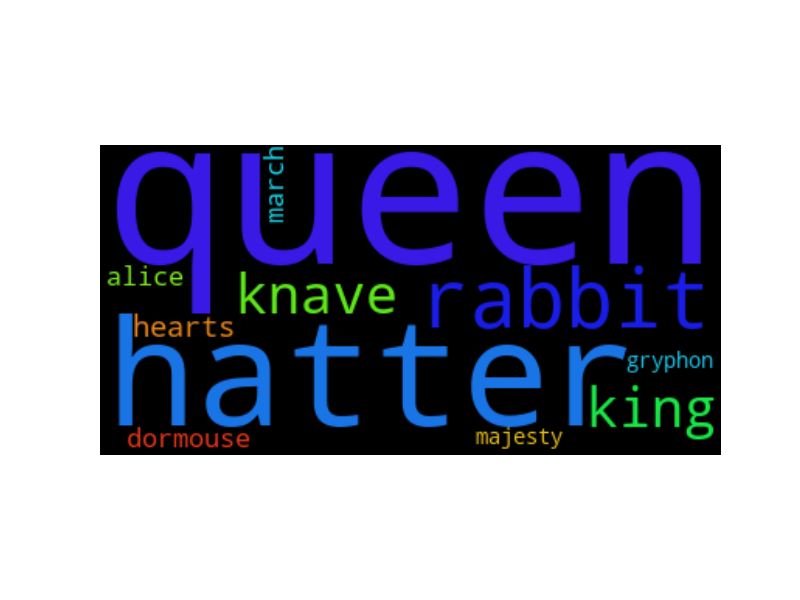
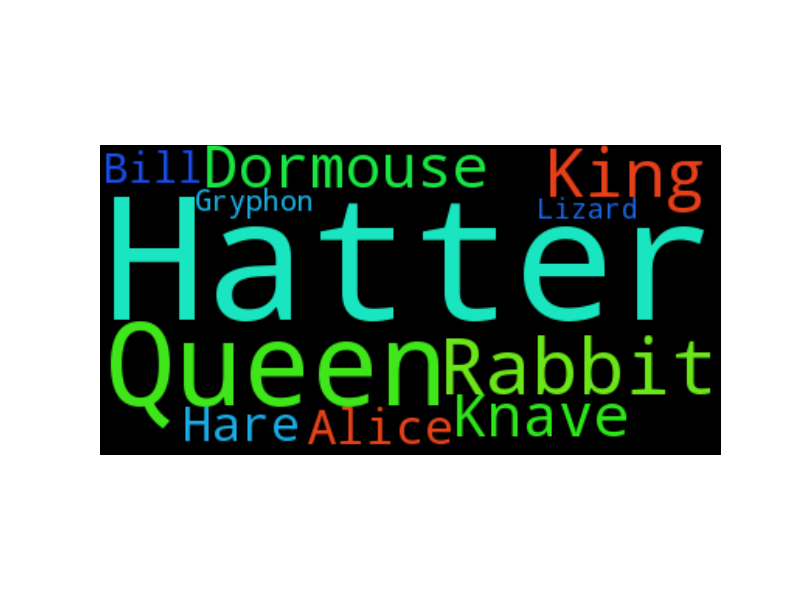
better draw graph

Changed region(s): [[0.125, 0.24, 0.9062, 0.75]]

diff --git a/src/AliceBook.py b/src/AliceBook.py
@@ -21,6 +21,7 @@ class AliceBook:
     __processed_book_by_sentences = None
     __character_list = None
     __characters_map = None
+    __rev_characters_map = None
     __sentences_matrices = None
     __paragraphs_matrices = None
 
@@ -29,8 +30,19 @@ class AliceBook:
         self.load_chapters()
         self.load_book_by_paragraphs()
         self.load_book_by_sentences()
-        self.process_book_by_paragraphs_with_nltk()
-        self.process_book_by_sentences_with_nltk()
+
+        try:
+            self.__processed_book_by_paragraphs = np.load(os.path.join("cache", "processed_book_by_paragraphs.npy"))[()]
+        except:
+            self.process_book_by_paragraphs_with_nltk()
+            np.save(os.path.join("cache", "processed_book_by_paragraphs"), self.__processed_book_by_paragraphs)
+
+        try:
+            self.__processed_book_by_sentences = np.load(os.path.join("cache", "processed_book_by_sentences.npy"))[()]
+        except:
+            self.process_book_by_sentences_with_nltk()
+            np.save(os.path.join("cache", "processed_book_by_sentences"), self.__processed_book_by_sentences)
+
 
         self.load_character_list()
         self.load_character_map()
@@ -52,6 +64,18 @@ class AliceBook:
     def get_character_list(self):
         return self.__character_list
 
+    def get_characters_map(self):
+        return self.__characters_map
+
+    def get_rev_characters_map(self):
+        return self.__rev_characters_map
+
+    def get_sentences_matrices(self):
+        return self.__sentences_matrices
+
+    def get_paragraphs_matrices(self):
+        return self.__paragraphs_matrices
+
     def show_wordcloud_from_sencences(self):
         sentences_texts_for_wordcloud = self.generate_text_for_wordcloud(self.__sentences_matrices)
         list_of_words_from_book_by_sentences = ""
@@ -70,15 +94,19 @@ class AliceBook:
 
     def show_wordcloud_from_sencences_from_chapter(self, i):
         sentences_texts_for_wordcloud = self.generate_text_for_wordcloud(self.__sentences_matrices)
-
         wordcloud_show(sentences_texts_for_wordcloud[i])
-        # wordcloud_save(sentences_texts_for_wordcloud[i], "../data/wordcloud/" + str(i+1) + "_BySentences")
+
+    def save_wordcloud_from_sencences_from_chapter(self, i):
+        sentences_texts_for_wordcloud = self.generate_text_for_wordcloud(self.__sentences_matrices)
+        wordcloud_save(sentences_texts_for_wordcloud[i], os.path.join("..", "data", "wordcloud", "{}_BySentences".format(i+1)))
 
     def show_wordcloud_from_paragraphs_from_chapter(self, i):
         paragraphs_texts_for_wordcloud = self.generate_text_for_wordcloud(self.__paragraphs_matrices)
         wordcloud_show(paragraphs_texts_for_wordcloud[i])
-        # wordcloud_save(paragraphs_texts_for_wordcloud[i], "../data/wordcloud/" + str(i+1) + "_ByParagraphs")
 
+    def save_wordcloud_from_paragraphs_from_chapter(self, i):
+        paragraphs_texts_for_wordcloud = self.generate_text_for_wordcloud(self.__paragraphs_matrices)
+        wordcloud_save(paragraphs_texts_for_wordcloud[i], os.path.join("..", "data", "wordcloud", "{}_ByParagraphs".format(i+1)))
 
     def load_whole_book(self):
         file = os.path.join("..", "data", "alice.txt")
@@ -156,7 +184,7 @@ class AliceBook:
                             characters_map[word] += 1
         characters_list = []
         for character in characters_map:
-            if characters_map[character] > 2:
+            if characters_map[character] > 3:
                 characters_list += [character]
         filter_alice_character_list(characters_list)
         self.__character_list = characters_list
@@ -187,11 +215,14 @@ class AliceBook:
 
     def load_character_map(self):
         characters_map = {}
+        rev_characters_map = {}
         counter = 0
         for character in self.__character_list:
             characters_map[character] = counter
+            rev_characters_map[counter] = character
             counter += 1
         self.__characters_map = characters_map
+        self.__rev_characters_map = rev_characters_map
 
     def process_book_by_paragraphs_to_lower(self):
         for chapter in self.__processed_book_by_paragraphs:
@@ -275,35 +306,35 @@ def filter_alice_character_list(characters_list):
     characters_list.remove("Beautiful")
     characters_list.remove("Let")
     characters_list.remove("Mock")  # turtle
-    characters_list.remove("Paris")
+    # characters_list.remove("Paris")
     characters_list.remove("Majesty")
     characters_list.remove("French")
     characters_list.remove("White")
     characters_list.remove("Duchess")
-    characters_list.remove("Adventures")
-    characters_list.remove("Silence")
-    characters_list.remove("Longitude")
+    # characters_list.remove("Adventures")
+    # characters_list.remove("Silence")
+    # characters_list.remove("Longitude")
     characters_list.remove("Miss")
-    characters_list.remove("Pray")
+    # characters_list.remove("Pray")
     characters_list.remove("English")
     characters_list.remove("March")  # hare
-    characters_list.remove("Conqueror")  # William
+    # characters_list.remove("Conqueror")  # William
     characters_list.remove("Said")
-    characters_list.remove("Father")  # William
+    # characters_list.remove("Father")  # William
     characters_list.remove("Lobster")  # Quadrille
-    characters_list.remove("Sure")
+    # characters_list.remove("Sure")
     characters_list.remove("Soup")
-    characters_list.remove("Uglification")
+    # characters_list.remove("Uglification")
     characters_list.remove("Two")  # rarely, conflicts
     characters_list.remove("Hearts")  # specifics exists
     characters_list.remove("Yet")
-    characters_list.remove("One")
-    characters_list.remove("Mystery")
+    # characters_list.remove("One")
+    # characters_list.remove("Mystery")
     characters_list.remove("Soo")
-    characters_list.remove("Latitude")
-    characters_list.remove("Northumbria")  # place
-    characters_list.remove("Mercia")  # place
-    characters_list.remove("Mary")  # Ann
-    characters_list.remove("Rome")
-    characters_list.remove("Well")
+    # characters_list.remove("Latitude")
+    # characters_list.remove("Northumbria")  # place
+    # characters_list.remove("Mercia")  # place
+    # characters_list.remove("Mary")  # Ann
+    # characters_list.remove("Rome")
+    # characters_list.remove("Well")
     # print(characters_list)

diff --git a/src/SNA.py b/src/SNA.py
@@ -1,4 +1,6 @@
 # -*- coding: utf-8 -*-
+import os
+
 import networkx as nx
 import matplotlib.pyplot as plt
 
@@ -8,11 +10,58 @@ class SNA:
 
     def __init__(self, book):
         self.__graph = nx.Graph()
+        self.__graph2 = nx.Graph()
         self.__book = book
 
+        self.build_graph_from_paragraphs()
+        # self.build_graph_from_sentences()
 
 
 
-        self.__graph.add_nodes_from(self.__book.get_character_list())
-        nx.draw(self.__graph)
-        plt.show()
+
+    def add_nodes(self):
+        character_list = self.__book.get_character_list()
+
+        self.__graph.add_nodes_from(character_list)
+        self.__graph2.add_nodes_from(character_list)
+
+
+    def add_eages(self, matrices, dir = None):
+        rev_character_map = self.__book.get_rev_characters_map()
+
+        for i in range(len(matrices)):
+            for x in range(len(matrices[i])):
+                for y in range(len(matrices[i])):
+                    if x != y and matrices[i][x][y] != 0:
+                        for _ in range(int(matrices[i][x][y])):
+                            self.__graph.add_edge(rev_character_map[x], rev_character_map[y]) #add_weighted_edge
+
+            self.draw_graph(dir, i)
+
+    def add_eages2(self, matrices, dir = None):
+        rev_character_map = self.__book.get_rev_characters_map()
+
+        for i in range(len(matrices)):
+            for x in range(len(matrices[i])):
+                for y in range(len(matrices[i])):
+                    if x != y and matrices[i][x][y] != 0:
+                        for _ in range(int(matrices[i][x][y])):
+                            self.__graph2.add_edge(rev_character_map[x], rev_character_map[y]) #add_weighted_edge
+
+
+    def build_graph(self, matrices, dir = None):
+        self.add_nodes()
+        self.add_eages2(matrices)
+        self.global_pos=nx.fruchterman_reingold_layout(self.__graph2)
+        self.add_eages(matrices, dir)
+
+    def build_graph_from_paragraphs(self):
+        self.build_graph(self.__book.get_paragraphs_matrices(), "ByParagraphs")
+
+    def build_graph_from_sentences(self):
+        self.build_graph(self.__book.get_sentences_matrices(), "BySentences")
+
+    def draw_graph(self, dir, file_name):
+        nx.draw_networkx(self.__graph, pos = self.global_pos, node_size=1000, node_color='silver', width=1, font_size=8)
+        plt.savefig(os.path.join("..", "data", "graphs", "{}".format(dir), "{}".format(file_name)))
+        plt.clf()

diff --git a/src/__init__.py b/src/__init__.py
@@ -16,11 +16,9 @@ if __name__ == "__main__":
     # alice.show_wordcloud_from_sencences()
     # alice.show_wordcloud_from_paragraphs()
 
-
-
     # for i in range(0, 12):
-    #     alice.show_wordcloud_from_sencences_from_chapter(i)
-    #     alice.show_wordcloud_from_paragraphs_from_chapter(i)
+    #     alice.save_wordcloud_from_sencences_from_chapter(i)
+    #     alice.save_wordcloud_from_paragraphs_from_chapter(i)
 
     # print(book_by_paragraphs[0][5])
     # print(processed_book_by_paragraphs[0][5])
